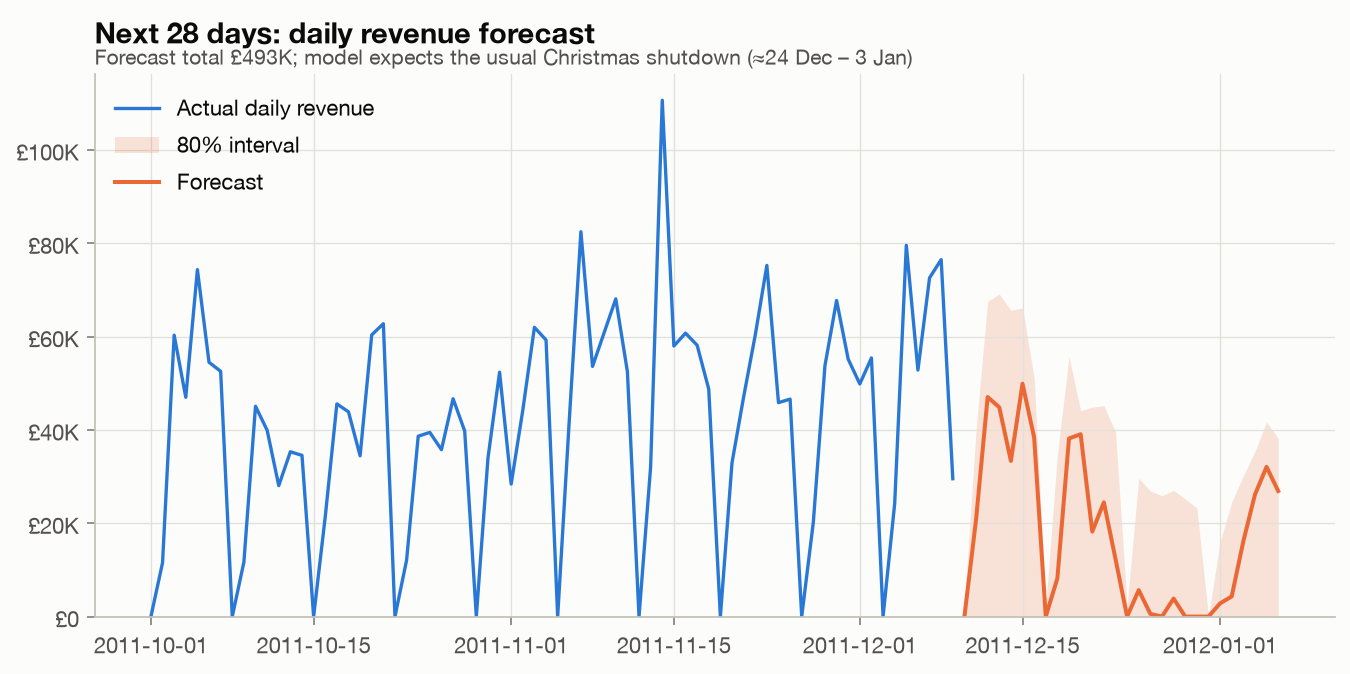
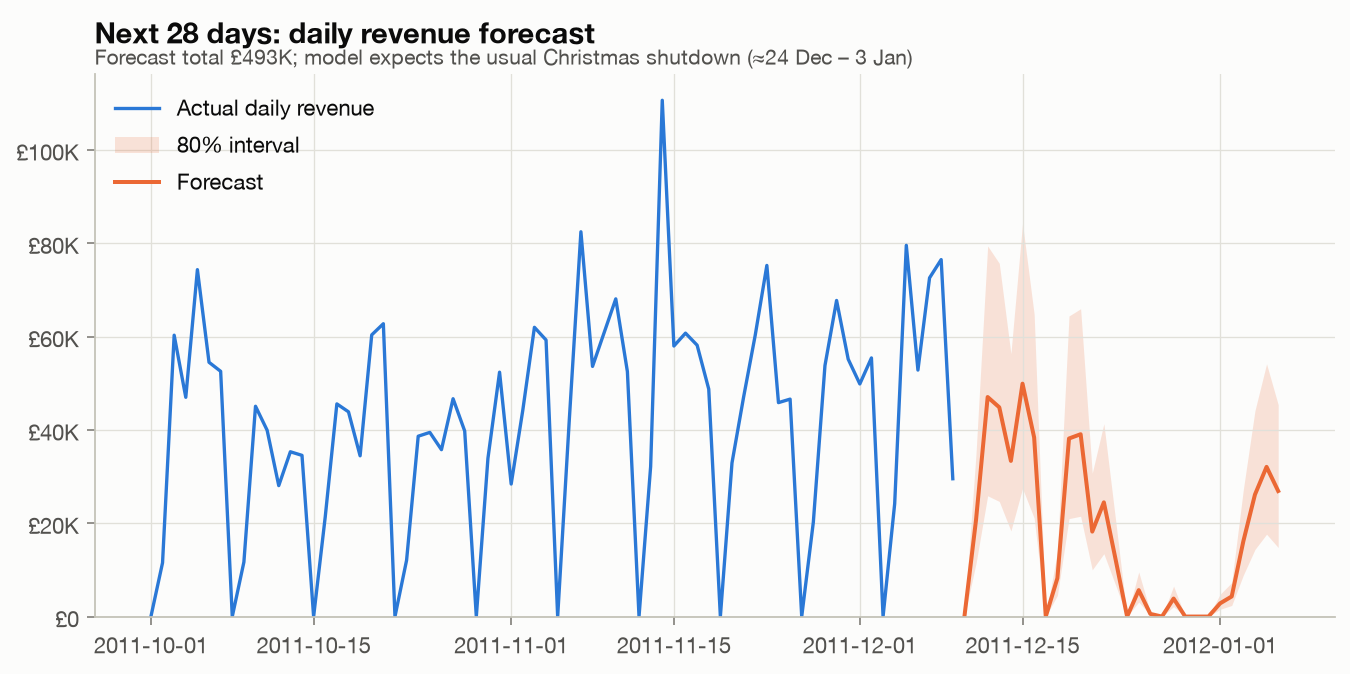
Replace forecast quantile band with one calibrated on backtest errors
About 18% of days have zero revenue, which pinned the quantile models'
low edge at 0 on every forecast day. The 80% range is now the forecast
times the 10th and 90th percentile of actual / forecast on open days in
past backtests. Chosen on the validation folds; on the test folds 83.3%
of open days fell inside. Point forecasts and WAPE are unchanged.

The assistant's weekly forecast example no longer adds up daily edges,
since that sum is not an 80% range.

Changed region(s): [[0.7156, 0.3739, 0.9644, 0.9347], [0.9022, 0.5608, 0.9644, 0.6855]]

diff --git a/src/retail_bi/forecast.py b/src/retail_bi/forecast.py
@@ -6,8 +6,11 @@ Setup
 * Every feature is known at least `H` = 28 days before the forecast date
   (lags >= 28 days, calendar features), so a single model can forecast the
   whole next 4 weeks without leaking future information.
-* Model: gradient-boosted trees (scikit-learn HistGradientBoostingRegressor),
-  plus quantile models for an 80% prediction interval.
+* Model: gradient-boosted trees (scikit-learn HistGradientBoostingRegressor).
+* 80% range for each day: the forecast times the 10th and 90th percentile of
+  actual / forecast on open days in past backtest folds. Quantile models were
+  rejected on the validation window: about 18% of days have zero revenue, which
+  pinned their 10th percentile at 0.
 
 Evaluation
 ----------
@@ -27,6 +30,7 @@ from retail_bi import config
 
 H = config.FORECAST_HORIZON_DAYS
 SAME_DOW_LAGS = [28, 35, 42, 49]
+CLOSED_DOW = 5  # Saturday: the shop does not trade (99% of Saturdays have zero revenue)
 
 BASELINES = {
     "Seasonal naive (same weekday, 4 weeks ago)": "lag_28",
@@ -89,8 +93,9 @@ class ModelSpec:
     # Forecast combination: blend weight given to last year's same-weekday value (0 = model only).
     blend_last_year: float = 0.0
 
-    def model(self, quantile: float | None = None) -> HistGradientBoostingRegressor:
-        params = dict(
+    def model(self) -> HistGradientBoostingRegressor:
+        return HistGradientBoostingRegressor(
+            loss=self.loss,
             learning_rate=self.learning_rate,
             max_iter=self.max_iter,
             max_leaf_nodes=self.max_leaf_nodes,
@@ -98,16 +103,13 @@ class ModelSpec:
             l2_regularization=self.l2_regularization,
             random_state=config.RANDOM_STATE,
         )
-        if quantile is not None:
-            return HistGradientBoostingRegressor(loss="quantile", quantile=quantile, **params)
-        return HistGradientBoostingRegressor(loss=self.loss, **params)
 
 
-def _fit_predict(spec: ModelSpec, X_train, y_train, X_test, quantile: float | None = None) -> np.ndarray:
+def _fit_predict(spec: ModelSpec, X_train, y_train, X_test) -> np.ndarray:
     # Early folds have < 1 year of history, so yearly features can be entirely empty there.
     usable = [c for c in X_train.columns if X_train[c].nunique(dropna=True) > 1]
     target = np.log1p(y_train.clip(lower=0)) if spec.target == "log1p" else y_train
-    model = spec.model(quantile).fit(X_train[usable], target)
+    model = spec.model().fit(X_train[usable], target)
     pred = model.predict(X_test[usable])
     if spec.target == "log1p":
         pred = np.expm1(pred)
@@ -190,18 +192,48 @@ def improvement_vs_best_baseline(scores: pd.DataFrame, metric: str = "daily_wape
     }
 
 
-def forecast_future(y: pd.Series, spec: ModelSpec, horizon: int = H) -> pd.DataFrame:
-    """Train on all history and forecast the next `horizon` days with an 80% interval."""
+def interval_multipliers(bt: pd.DataFrame) -> tuple[float, float]:
+    """How far actuals landed from the forecast on open days: 10th and 90th percentile of actual / forecast."""
+    open_days = bt[(bt.index.day_of_week != CLOSED_DOW) & (bt["model"] > 0)]
+    low, high = np.quantile(open_days["actual"] / open_days["model"], [0.10, 0.90])
+    return min(max(float(low), 0.0), 1.0), max(float(high), 1.0)
+
+
+def interval(pred: pd.Series, multipliers: tuple[float, float]) -> pd.DataFrame:
+    """80% range for each day: the forecast times the multipliers. Closed days run from 0 up to the forecast."""
+    is_open = pred.index.day_of_week != CLOSED_DOW
+    return pd.DataFrame({
+        "lower_80": (pred * multipliers[0]).where(is_open, 0.0),
+        "upper_80": (pred * multipliers[1]).where(is_open, pred),
+    })
+
+
+def score_interval(history: pd.DataFrame, test: pd.DataFrame) -> dict:
+    """Out-of-sample check of the band on open days: each test fold is calibrated only on folds before it."""
+    parts = []
+    for fold, rows in test.groupby("fold"):
+        past = pd.concat([history, test[test["fold"] < fold]])
+        parts.append(rows.join(interval(rows["model"], interval_multipliers(past))))
+    scored = pd.concat(parts)
+    scored = scored[scored.index.day_of_week != CLOSED_DOW]
+    below, above = scored["actual"] < scored["lower_80"], scored["actual"] > scored["upper_80"]
+    return {
+        "open_days": len(scored),
+        "coverage_pct": round(float((~below & ~above).mean() * 100), 1),
+        "below_lower_pct": round(float(below.mean() * 100), 1),
+        "above_upper_pct": round(float(above.mean() * 100), 1),
+    }
+
+
+def forecast_future(y: pd.Series, spec: ModelSpec, multipliers: tuple[float, float], horizon: int = H) -> pd.DataFrame:
+    """Train on all history and forecast the next `horizon` days with an 80% range."""
     end = y.index.max() + pd.Timedelta(days=horizon)
     X = build_features(y, end=end)
     train = _train_mask(X, y, y.index.max() + pd.Timedelta(days=1))
     future_idx = X.index[X.index > y.index.max()]
-    out = pd.DataFrame(index=future_idx)
-    out["forecast"] = _blend(spec, _fit_predict(spec, X[train], y[train], X.loc[future_idx]), X.loc[future_idx])
-    out["lower_80"] = _fit_predict(spec, X[train], y[train], X.loc[future_idx], quantile=0.10)
-    out["upper_80"] = _fit_predict(spec, X[train], y[train], X.loc[future_idx], quantile=0.90)
-    out["lower_80"] = np.minimum(out["lower_80"], out["forecast"])
-    out["upper_80"] = np.maximum(out["upper_80"], out["forecast"])
+    pred = pd.Series(_blend(spec, _fit_predict(spec, X[train], y[train], X.loc[future_idx]), X.loc[future_idx]), index=future_idx)
+    out = interval(pred, multipliers)
+    out.insert(0, "forecast", pred)
     out.index.name = "date"
     return out.round(2)
 

diff --git a/src/retail_bi/pipeline.py b/src/retail_bi/pipeline.py
@@ -65,7 +65,7 @@ def write_data_quality_report(raw, log_df, prof, checks_df) -> None:
     (config.REPORTS_DIR / "data_quality.md").write_text("\n".join(lines) + "\n", encoding="utf-8")
 
 
-def write_model_report(selection, scores, improvement, weekly_improvement, spec, sil, seg_profile, curve, anomaly_eval, daily_flagged) -> None:
+def write_model_report(selection, scores, improvement, weekly_improvement, spec, multipliers, band_check, sil, seg_profile, curve, anomaly_eval, daily_flagged) -> None:
     lines = [
         "# Model results",
         "",
@@ -91,6 +91,16 @@ def write_model_report(selection, scores, improvement, weekly_improvement, spec,
         f"{weekly_improvement['error_reduction_pct']:.1f}% lower error.",
         "- WAPE = sum(|actual - forecast|) / sum(actual). Lower is better. The model also has lower bias than the",
         "  short-term baselines, which under-forecast the autumn ramp-up.",
+        "",
+        "**80% range for each day.** Quantile gradient boosting was rejected on the validation window: about 18% of days",
+        "have zero revenue, which pinned its low edge at 0. The range now comes from past backtest errors instead.",
+        "",
+        f"- On open days, actual revenue usually landed between {multipliers[0]:.2f}x and {multipliers[1]:.2f}x the forecast. "
+        "The range is the forecast times those multipliers. Saturdays are closed, so they run from 0 up to the forecast.",
+        f"- Checked on the test folds over {band_check['open_days']} open days, calibrating each fold only on earlier folds: "
+        f"**{band_check['coverage_pct']}%** of days fell inside (target 80%), {band_check['below_lower_pct']}% below and "
+        f"{band_check['above_upper_pct']}% above.",
+        "- The range applies to one day at a time. Adding up daily edges does not give an 80% range for a week or a month.",
         "",
         "## 2. Customer segmentation (RFM + K-Means)",
         "",
@@ -172,7 +182,11 @@ def run() -> dict:
     scores = forecast.score(bt)
     improvement = forecast.improvement_vs_best_baseline(scores)
     weekly_improvement = forecast.improvement_vs_best_baseline(scores, "weekly_wape_pct")
-    future = forecast.forecast_future(daily, spec)
+    history = forecast.backtest(daily, forecast.fold_starts(daily, 2 * config.BACKTEST_FOLDS, skip_folds=config.BACKTEST_FOLDS), spec)
+    band_check = forecast.score_interval(history, bt)
+    multipliers = forecast.interval_multipliers(pd.concat([history, bt]))
+    future = forecast.forecast_future(daily, spec, multipliers)
+    pd.DataFrame([band_check]).to_csv(config.TABLES_DIR / "forecast_interval_check.csv", index=False)
     selection.to_csv(config.TABLES_DIR / "forecast_model_selection.csv", index=False)
     scores.to_csv(config.TABLES_DIR / "forecast_scores.csv", index=False)
     bt.round(2).to_csv(config.TABLES_DIR / "forecast_backtest.csv")
@@ -208,7 +222,7 @@ def run() -> dict:
     )
     plots.product_family_growth(kpis["product_family"])
     plots.top_countries(kpis["country_performance"])
-    write_model_report(selection, scores, improvement, weekly_improvement, spec, sil, seg_profile, curve, anomaly_eval, daily_scored)
+    write_model_report(selection, scores, improvement, weekly_improvement, spec, multipliers, band_check, sil, seg_profile, curve, anomaly_eval, daily_scored)
 
     results = {
         "kpis": kpis, "segment_profile": seg_profile, "forecast_improvement": improvement,

diff --git a/tests/test_analytics.py b/tests/test_analytics.py
@@ -83,3 +83,38 @@ def test_rfm_scores_and_cluster_names():
     profile["rfm_score"] = profile.sum(axis=1)
     names = rfm.name_clusters(profile)
     assert names == {0: "Champions", 2: "Hibernating", 1: "At Risk", 3: "New / Promising"}
+
+
+def test_interval_ignores_closed_days():
+    """Zero-revenue Saturdays must not pull the low edge to 0, and must not be scaled up."""
+    idx = pd.date_range("2011-01-03", periods=70, freq="D")
+    is_open = idx.day_of_week != forecast.CLOSED_DOW
+    pred = pd.Series(np.where(is_open, 100.0, 5.0), index=idx)
+    ratio = np.resize([0.6, 0.8, 1.0, 1.2, 1.4], len(idx))
+    bt = pd.DataFrame({"fold": 1, "actual": pred * ratio * is_open, "model": pred})
+    low, high = forecast.interval_multipliers(bt)
+    assert 0.5 < low < 1 < high < 1.5
+    band = forecast.interval(pred, (low, high))
+    assert (band.loc[is_open, "lower_80"] == 100 * low).all()
+    assert (band.loc[~is_open, "lower_80"] == 0).all() and (band.loc[~is_open, "upper_80"] == 5).all()
+
+
+def test_interval_check_calibrates_only_on_earlier_folds():
+    """A fold far above its own past must score as missed: it may not widen its own band."""
+    idx = pd.date_range("2011-01-03", periods=56, freq="D")
+    pred = pd.Series(100.0, index=idx)
+    ratio = pd.Series(np.resize([0.9, 1.0, 1.1], len(idx)), index=idx)
+    history = pd.DataFrame({"fold": 1, "actual": pred * ratio, "model": pred})
+    test_idx = idx + pd.Timedelta(days=56)
+    test = pd.DataFrame({"fold": 1, "actual": 300.0, "model": 100.0}, index=test_idx)
+    result = forecast.score_interval(history, test)
+    assert result["coverage_pct"] == 0 and result["above_upper_pct"] == 100
+
+
+def test_future_band_contains_the_forecast():
+    y = _daily(560)
+    out = forecast.forecast_future(y, forecast.ModelSpec(max_iter=50), (0.6, 1.5))
+    assert len(out) == forecast.H
+    assert (out["lower_80"] <= out["forecast"]).all() and (out["forecast"] <= out["upper_80"]).all()
+    is_open = out.index.day_of_week != forecast.CLOSED_DOW
+    assert (out.loc[is_open & (out["forecast"] > 0), "lower_80"] > 0).all()

diff --git a/src/retail_bi/assistant.py b/src/retail_bi/assistant.py
@@ -39,7 +39,7 @@ Business definitions (use these exactly):
 - customer_id is NULL for guest checkouts; exclude NULLs for customer-level questions.
 - dim_product.product_family is a keyword-derived category; dim_customer.cohort_month is the first-purchase month.
 - customer_segments has the RFM segment per customer (Champions, Loyal Customers, At Risk, New / Promising, Hibernating).
-- daily_forecast has the next-28-day revenue forecast with an 80% interval.
+- daily_forecast has the next-28-day revenue forecast with an 80% range for each single day. Do not add up lower_80 or upper_80 across days: the sum is not an 80% range.
 """
 
 SQL_SYSTEM_PROMPT = """You are a senior data analyst for a UK online gift wholesaler. You translate business \
@@ -106,8 +106,7 @@ EXAMPLE_QUESTIONS = {
         FROM fact_sales f JOIN dim_product p ON f.stock_code = p.stock_code
         GROUP BY 1 ORDER BY return_rate_pct DESC""",
     "What revenue is forecast for each of the next 4 weeks?": """
-        SELECT DATE_TRUNC('week', date) AS week_start, ROUND(SUM(forecast), 2) AS forecast,
-               ROUND(SUM(lower_80), 2) AS lower_80, ROUND(SUM(upper_80), 2) AS upper_80
+        SELECT DATE_TRUNC('week', date) AS week_start, ROUND(SUM(forecast), 2) AS forecast
         FROM daily_forecast GROUP BY 1 ORDER BY 1""",
 }
 

diff --git a/app/streamlit_app.py b/app/streamlit_app.py
@@ -273,7 +273,7 @@ def page_forecast():
         tooltip=[alt.Tooltip("date:T"), "series", alt.Tooltip("value:Q", format=",.0f", title="£")],
     )
     st.altair_chart((band + lines).properties(height=360), width="stretch")
-    st.caption("Shaded band = 80% prediction interval (quantile gradient boosting). Saturdays and the Christmas shutdown are ~£0.")
+    st.caption("Shaded band = 80% range for each day, based on how far actuals landed from the forecast in past backtests. Saturdays and the Christmas shutdown are ~£0.")
 
     st.subheader("How good is the model? (6-month backtest)")
     scores = table("forecast_scores")

diff --git a/README.md b/README.md
@@ -93,7 +93,7 @@ flowchart LR
   (lags ≥ 28 days, last year's values, calendar), so there's no look-ahead leakage. A unit test enforces this.
 - **Rolling-origin backtest.** Model settings were chosen on a validation window (Jan–Jun 2011). Results are
   reported on the last 6 months, which were never used for selection.
-- Compared with three baselines a planner would actually use. Quantile models provide an 80% prediction interval.
+- Compared with three baselines a planner would actually use. Each day also gets an 80% range based on past backtest errors, checked on the test months (see the [model report](reports/model_results.md)).
 
 | Method | Daily WAPE | Weekly WAPE |
 |---|---|---|
@@ -145,7 +145,7 @@ python -m venv .venv && source .venv/bin/activate
 pip install -r requirements.txt
 
 python run_pipeline.py             # downloads the data (~45 MB) and builds everything
-pytest                             # 42 tests
+pytest                             # 45 tests
 streamlit run app/streamlit_app.py # interactive app at http://localhost:8501
 ```
 
@@ -180,7 +180,7 @@ Power BI: see [`powerbi/POWER_BI_GUIDE.md`](powerbi/POWER_BI_GUIDE.md). The pipe
 ├── app/streamlit_app.py       # 7-page interactive app
 ├── powerbi/                   # DAX measures + build guide (CSVs generated)
 ├── reports/                   # figures, tables, insights, model + data-quality reports
-└── tests/                     # 42 tests (cleaning, SQL guard, leakage, SQL vs pandas, ...)
+└── tests/                     # 45 tests (cleaning, SQL guard, leakage, SQL vs pandas, ...)
 ```
 
 ## Limitations & next steps

diff --git a/reports/model_results.md b/reports/model_results.md
@@ -33,6 +33,13 @@ Selected: `gbm_mse_shallow+last_year_30` (HistGradientBoostingRegressor, squared
 - WAPE = sum(|actual - forecast|) / sum(actual). Lower is better. The model also has lower bias than the
   short-term baselines, which under-forecast the autumn ramp-up.
 
+**80% range for each day.** Quantile gradient boosting was rejected on the validation window: about 18% of days
+have zero revenue, which pinned its low edge at 0. The range now comes from past backtest errors instead.
+
+- On open days, actual revenue usually landed between 0.55x and 1.69x the forecast. The range is the forecast times those multipliers. Saturdays are closed, so they run from 0 up to the forecast.
+- Checked on the test folds over 144 open days, calibrating each fold only on earlier folds: **83.3%** of days fell inside (target 80%), 9.0% below and 7.6% above.
+- The range applies to one day at a time. Adding up daily edges does not give an 80% range for a week or a month.
+
 ## 2. Customer segmentation (RFM + K-Means)
 
 Silhouette score by number of clusters (log-scaled, standardised R/F/M):
